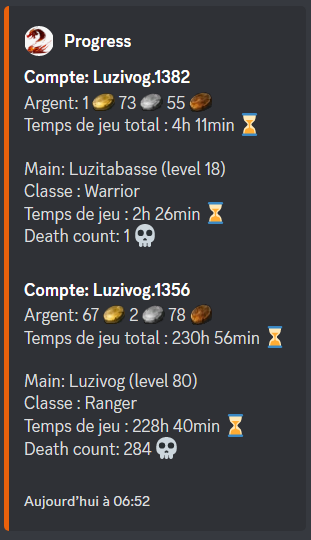
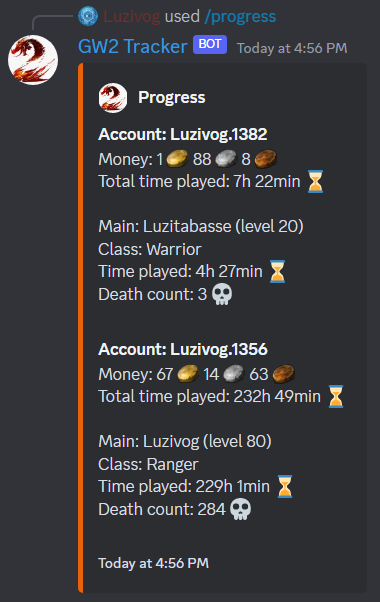
Changed to english and added docker support for installation

Changed region(s): [[0.0, 0.0, 0.926, 1.0]]

diff --git a/commands/progress.js b/commands/progress.js
@@ -1,6 +1,7 @@
 const { SlashCommandBuilder, EmbedBuilder } = require('discord.js');
 const { Account } = require('../Account');
 const config = require('../config');
+require("dotenv").config();
 
 const seconds_to_hm = (sec) => `${sec / 3600 >> 0}h ${sec % 3600 / 60 >> 0}min`
 
@@ -14,20 +15,24 @@ module.exports = {
 
         emojis = {};
 
-        for (let k of Object.keys(config.emoji_ids)) emojis[k] = interaction.options.client.emojis.cache.get(config.emoji_ids[k]);
+        for (let emoji_name of config.emoji_names) emojis[emoji_name] = interaction.options.client.emojis.cache.find(emoji => emoji.name === emoji_name);
 
         await interaction.deferReply();
 
         let accounts = [];
         let embedFields = [];
+        let apiKeys = [];
 
-        for (let api_key of config.api_keys) {
+        if (process.env.API_KEYS) apiKeys = process.env.API_KEYS.split(",");
+        else apiKeys = config.api_keys;
+
+        for (let api_key of apiKeys) {
             let new_acc = new Account(api_key);
             await new_acc.init();
             accounts.push(new_acc);
             embedFields.push({
-                name: 'Compte: '+new_acc.account['name'],
-                value: `Argent: ${new_acc.gold} ${emojis.gold_coin} ${new_acc.silver} ${emojis.silver_coin} ${new_acc.bronze} ${emojis.bronze_coin}\nTemps de jeu total: ${seconds_to_hm(new_acc.account['age'])} ⌛\n\nMain: ${new_acc.main_character['name']} (level ${new_acc.main_character['level']})\nClasse: ${new_acc.main_character['profession']}\nTemps de jeu: ${seconds_to_hm(new_acc.main_character['age'])} ⌛\nDeath count: ${new_acc.main_character['deaths']} 💀\n\u1CBC\u1CBC`
+                name: 'Account: '+new_acc.account['name'],
+                value: `Money: ${new_acc.gold} ${emojis.gold_coin} ${new_acc.silver} ${emojis.silver_coin} ${new_acc.bronze} ${emojis.bronze_coin}\nTotal time played: ${seconds_to_hm(new_acc.account['age'])} ⌛\n\nMain: ${new_acc.main_character['name']} (level ${new_acc.main_character['level']})\nClass: ${new_acc.main_character['profession']}\nTime played: ${seconds_to_hm(new_acc.main_character['age'])} ⌛\nDeath count: ${new_acc.main_character['deaths']} 💀\n\u1CBC\u1CBC`
             })
         };
 

diff --git a/deploy-commands.js b/deploy-commands.js
@@ -1,35 +1,46 @@
 const fs = require('node:fs');
 const { REST, Routes } = require('discord.js');
 
-const { clientId, guildId, BOT_TOKEN } = require('./config.js');
+const { BOT_TOKEN } = require('./config.js');
 
-const commands = [];
-// Grab all the command files from the commands directory you created earlier
-const commandFiles = fs.readdirSync('./commands').filter(file => file.endsWith('.js'));
+const initCommands = async (client) => {
 
-// Grab the SlashCommandBuilder#toJSON() output of each command's data for deployment
-for (const file of commandFiles) {
-	const command = require(`./commands/${file}`);
-	commands.push(command.data.toJSON());
-}
+	const commands = [];
 
-// Construct and prepare an instance of the REST module
-const rest = new REST({ version: '10' }).setToken(BOT_TOKEN);
+	const commandFiles = fs.readdirSync('./commands').filter(file => file.endsWith('.js'));
+	
+	for (const file of commandFiles) {
+		const command = require(`./commands/${file}`);
+		commands.push(command.data.toJSON());
+	}
 
-// and deploy your commands!
-(async () => {
+	let token;
+	if (process.env.BOT_TOKEN) token = process.env.BOT_TOKEN;
+	else token = BOT_TOKEN;
+
+	const rest = new REST({ version: '10' }).setToken(token);
+
 	try {
 		console.log(`Started refreshing ${commands.length} application (/) commands.`);
 
-		// The put method is used to fully refresh all commands in the guild with the current set
-		const data = await rest.put(
-			Routes.applicationGuildCommands(clientId, guildId),
-			{ body: commands },
-		);
+		const Guilds = client.guilds.cache.map(guild => guild.id);
+		
+		for (let guild of Guilds) {
+			await rest.put(
+				Routes.applicationGuildCommands(client.user.id, guild),
+				{ body: commands },
+			);
+		}
 
-		console.log(`Successfully reloaded ${data.length} application (/) commands.`);
+		console.log(`Successfully reloaded ${commands.length} application (/) commands.`);
+
 	} catch (error) {
-		// And of course, make sure you catch and log any errors!
+
 		console.error(error);
 	}
-})();
+}
+
+
+module.exports = {
+	initCommands: initCommands,
+}

diff --git a/index.js b/index.js
@@ -4,6 +4,9 @@ const path = require('path');
 const { Client, Collection, Events, GatewayIntentBits } = require('discord.js');
 
 const { BOT_TOKEN } = require('./config.js');
+const { initCommands } = require('./deploy-commands.js');
+const { exit } = require('node:process');
+require('dotenv').config();
 
 
 const client = new Client({ 
@@ -29,12 +32,17 @@ for (const file of commandFiles) {
 	else console.log(`[WARNING] The command at ${filePath} is missing a required "data" or "execute" property.`);
 };
 
-client.login(BOT_TOKEN);
+let token;
+if (process.env.BOT_TOKEN) {
+	console.log("Using environnement variables.")
+	token = process.env.BOT_TOKEN;
+} else token = BOT_TOKEN;
 
+client.login(token);
 
 client.once(Events.ClientReady, (bot) => {
 	console.log(`Ready! Logged in as ${bot.user.tag}`);
-    require('./deploy-commands.js');
+    initCommands(bot);
 });
 
 client.on(Events.InteractionCreate, async interaction => {

diff --git a/config.js b/config.js
@@ -1,0 +1,15 @@
+module.exports = {
+
+    BOT_TOKEN: 'Discord bot token here',
+
+    API_URL: 'https://api.guildwars2.com/v2/',
+
+    emoji_names: ["gold_coin", "silver_coin", "bronze_coin"], // rename these if the emojis have a different name on your server
+
+    api_keys: [
+        'gw2 api key number 1',
+        'gw2 api key number 2',
+        'and so on... (new api key for every different account you want to track)'
+    ]
+
+};
